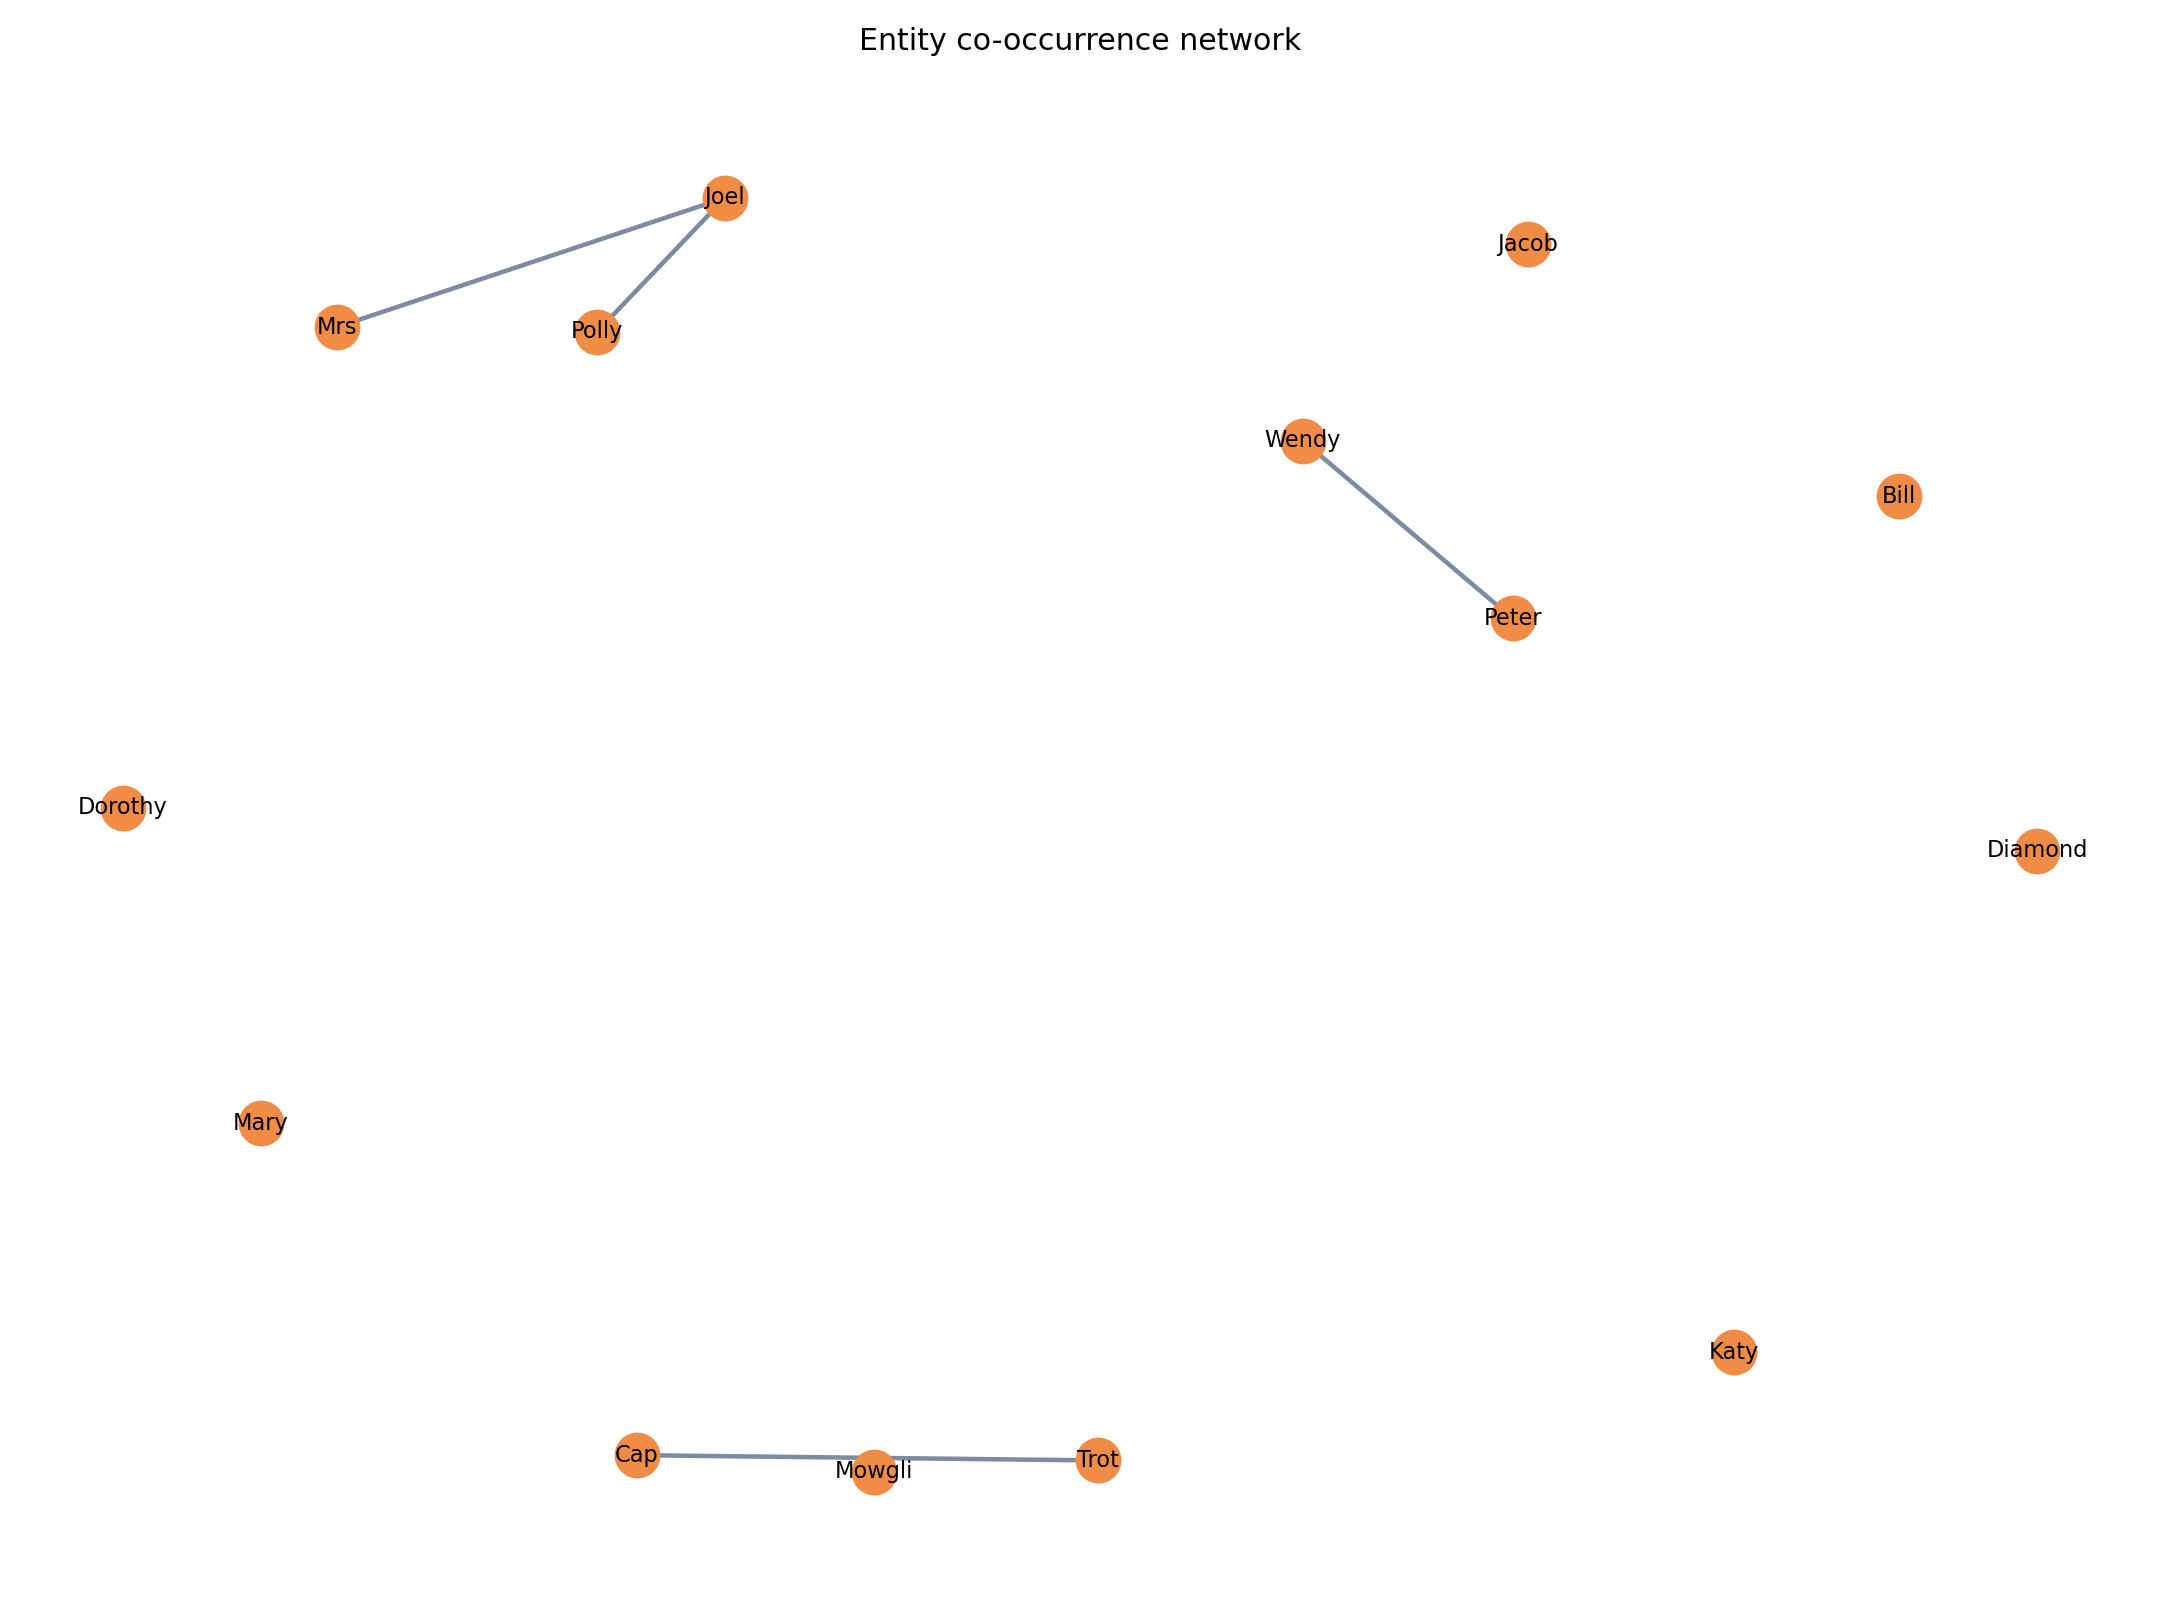
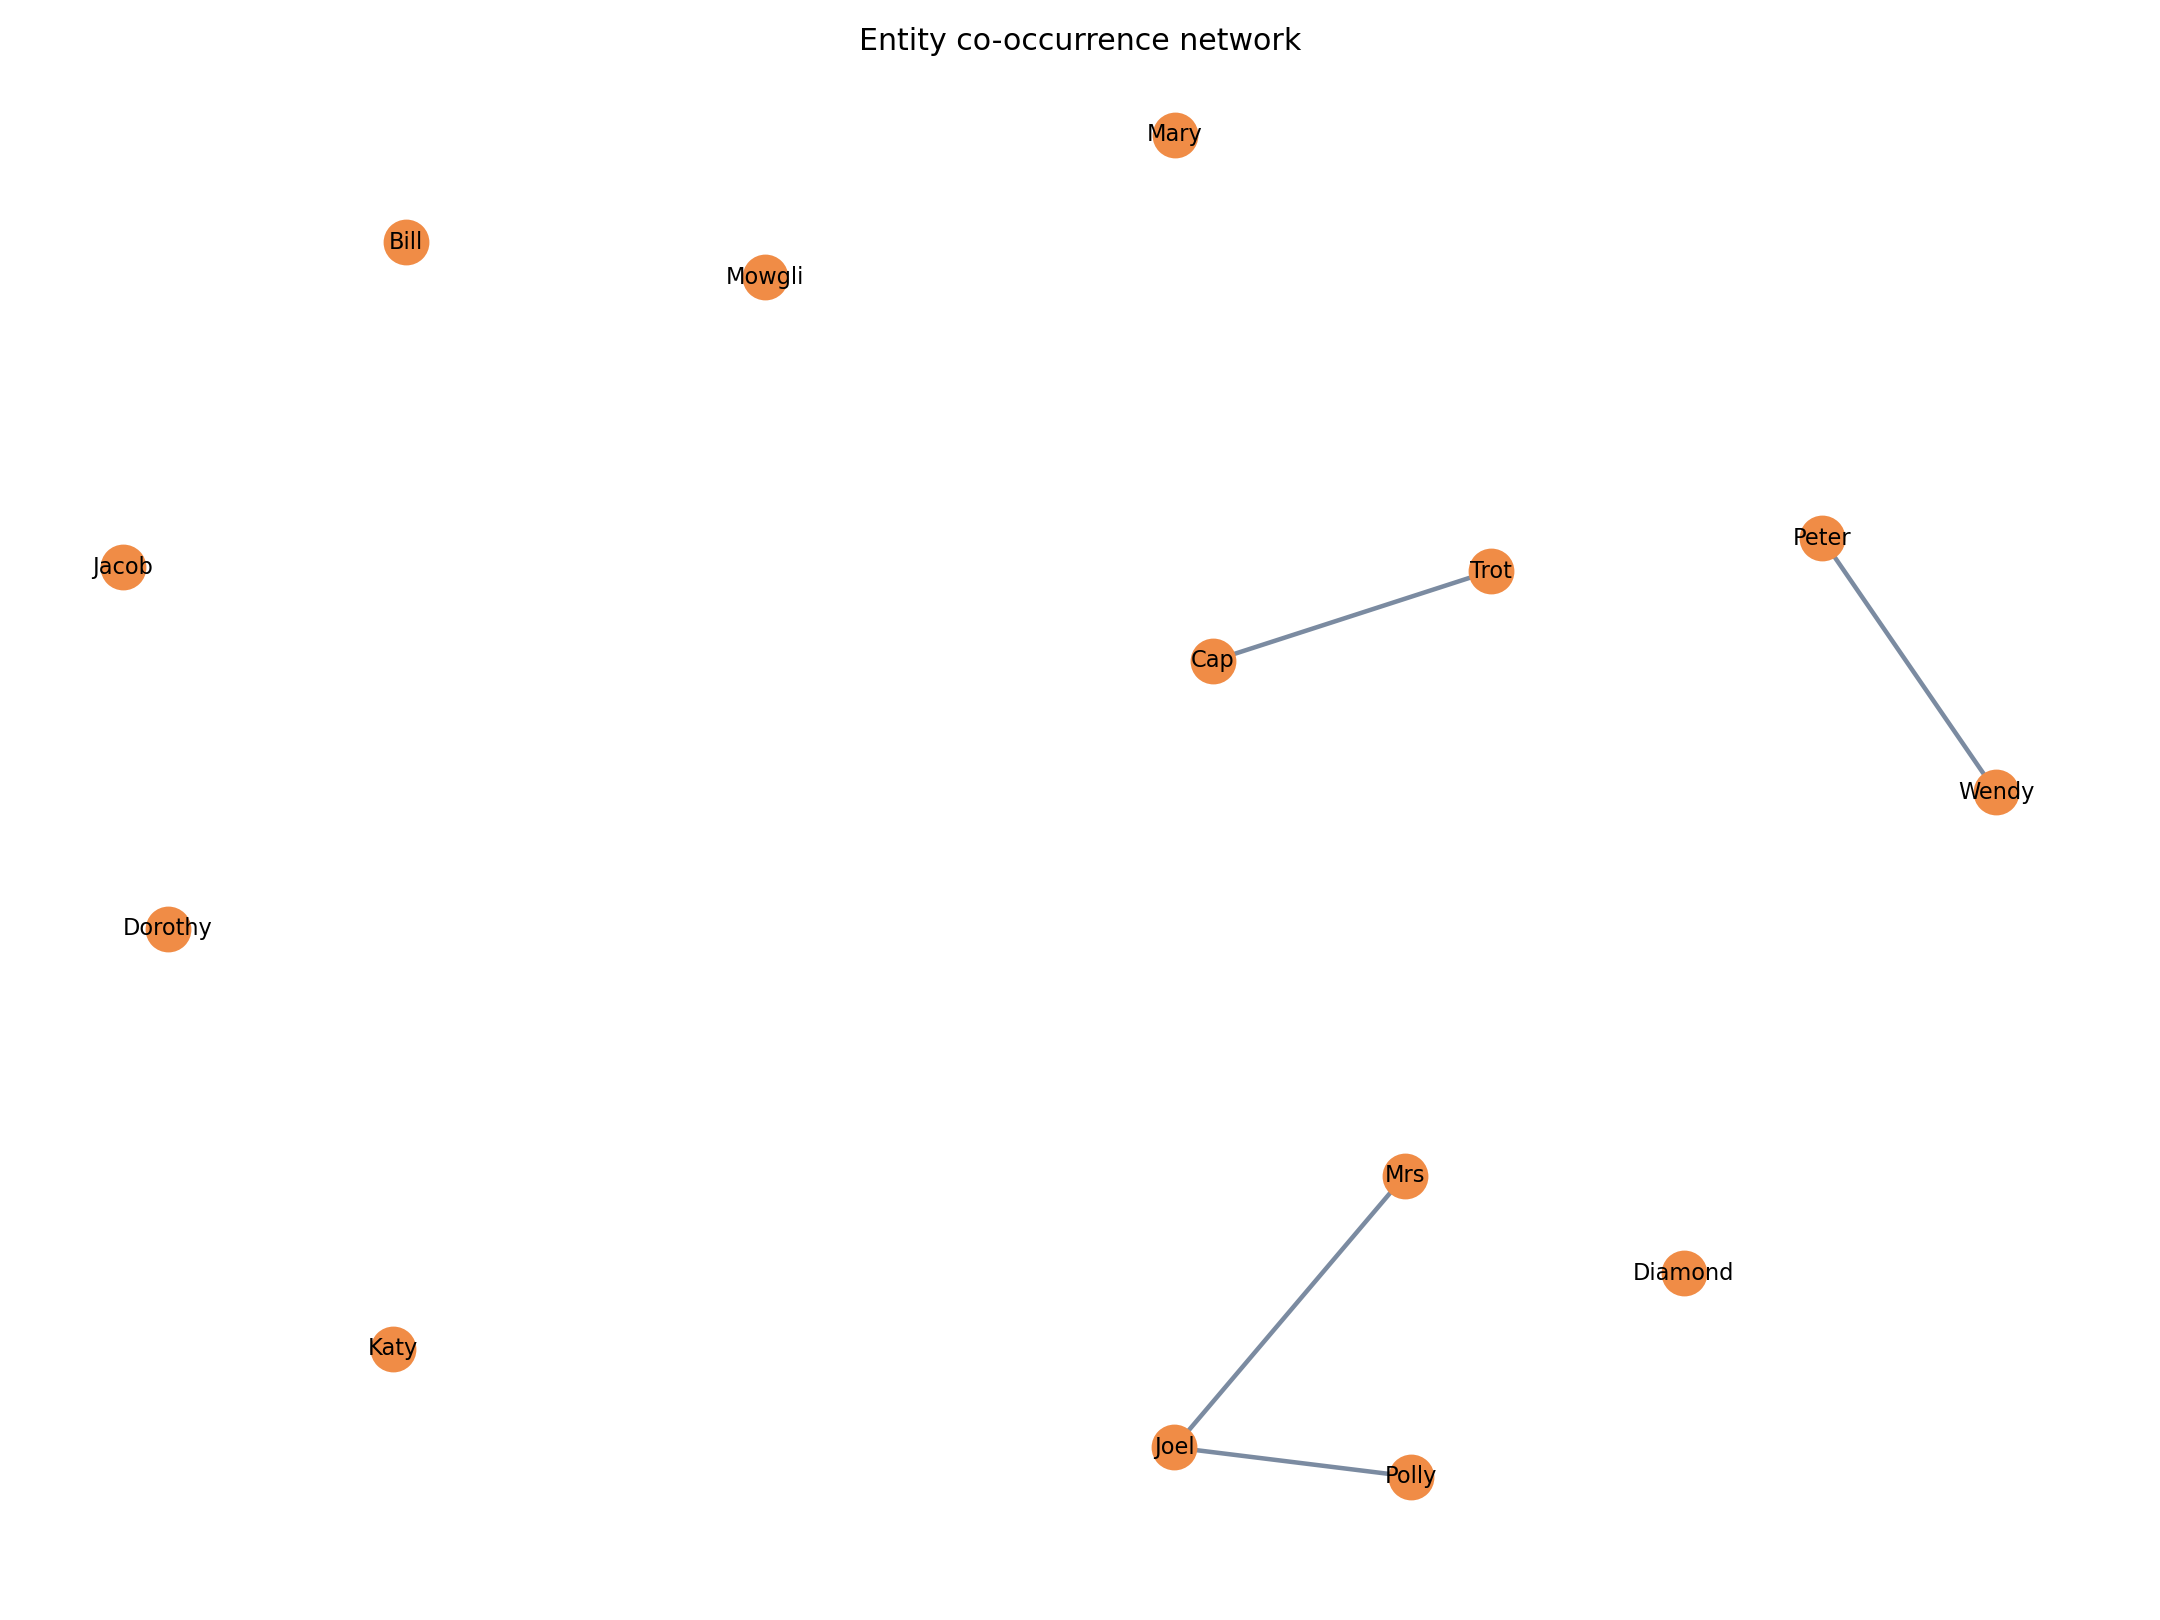
Strengthen README children literature framing

diff --git a/results/fragments/release_readiness.md b/results/fragments/release_readiness.md
@@ -2,7 +2,7 @@
 
 | path                                         | exists | bytes  |
 | -------------------------------------------- | ------ | ------ |
-| README.md                                    | True   | 31554  |
+| README.md                                    | True   | 32326  |
 | data/manifests/corpus_manifest.csv           | True   | 7317   |
 | data/manifests/local_assets.csv              | True   | 129404 |
 | data/manifests/legacy_summary.csv            | True   | 142    |
